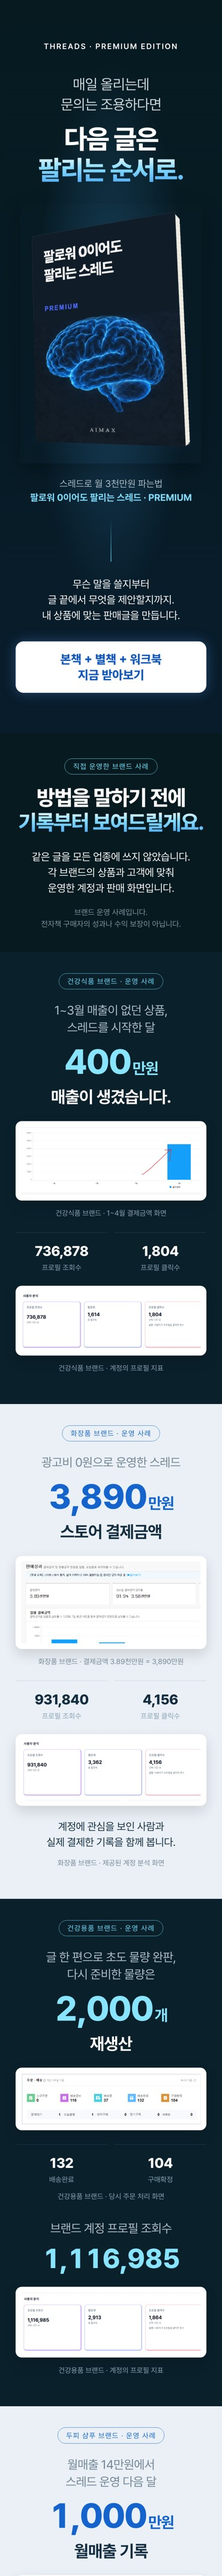
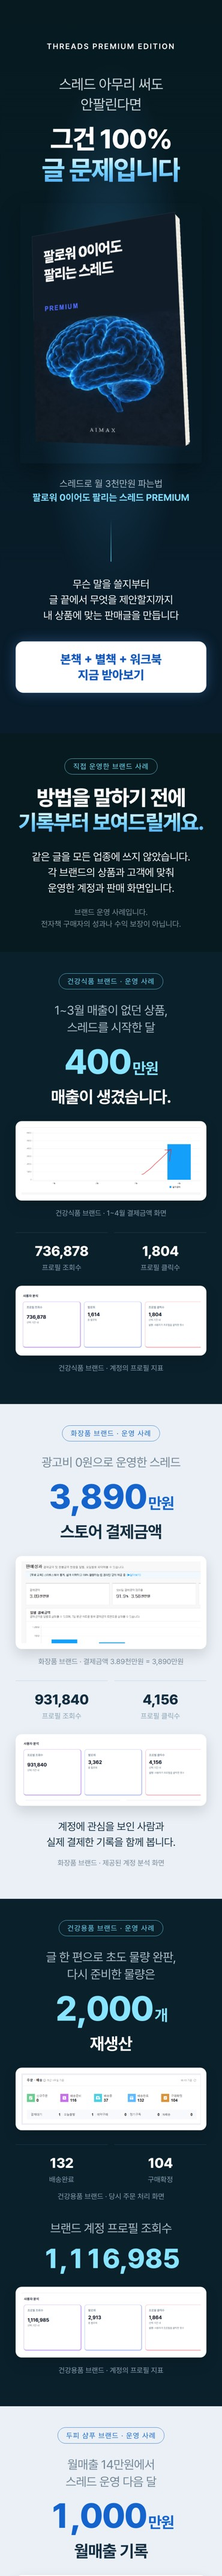
Update Threads premium hero with requested headline

diff --git a/landing/lounge-rebuild-20260930/threads-premium/detail.html b/landing/lounge-rebuild-20260930/threads-premium/detail.html
@@ -1,5 +1,5 @@
 <!DOCTYPE html><html lang="ko"><head><meta charset="utf-8"><title>스레드로 월 3천만원 파는법 · PREMIUM</title><link rel="stylesheet" href="design.css"></head><body><main class="page">
-<section class="hero dark" id="hero"><p class="eyebrow">THREADS · PREMIUM EDITION</p><p class="lead">매일 올리는데<br>문의는 조용하다면</p><h1>다음 글은<br><span class="metal">팔리는 순서로.</span></h1><img class="book" src="assets/book-current-3d.png" alt="최신 3D 스레드 PREMIUM 책 표지"><p class="caption">스레드로 월 3천만원 파는법<br><b>팔로워 0이어도 팔리는 스레드 · PREMIUM</b></p><div class="thread"></div><p class="body">무슨 말을 쓸지부터<br>글 끝에서 무엇을 제안할지까지.<br>내 상품에 맞는 판매글을 만듭니다.</p><div class="cta">본책 + 별책 + 워크북<br>지금 받아보기</div></section>
+<section class="hero dark" id="hero"><p class="eyebrow">THREADS PREMIUM EDITION</p><p class="lead">스레드 아무리 써도<br>안팔린다면</p><h1>그건 100%<br><span class="metal">글 문제입니다</span></h1><img class="book" src="assets/book-current-3d.png" alt="최신 3D 스레드 PREMIUM 책 표지"><p class="caption">스레드로 월 3천만원 파는법<br><b>팔로워 0이어도 팔리는 스레드 PREMIUM</b></p><div class="thread"></div><p class="body">무슨 말을 쓸지부터<br>글 끝에서 무엇을 제안할지까지<br>내 상품에 맞는 판매글을 만듭니다</p><div class="cta">본책 + 별책 + 워크북<br>지금 받아보기</div></section>
 
 <section class="evidence-intro dark" id="evidence-intro"><span class="pill cyan">직접 운영한 브랜드 사례</span><h2>방법을 말하기 전에<br><span class="metal">기록부터 보여드릴게요.</span></h2><p class="body">같은 글을 모든 업종에 쓰지 않았습니다.<br>각 브랜드의 상품과 고객에 맞춰<br>운영한 계정과 판매 화면입니다.</p><p class="small">브랜드 운영 사례입니다.<br>전자책 구매자의 성과나 수익 보장이 아닙니다.</p></section>
 <section class="brand-proof" id="brand-one"><span class="pill">건강식품 브랜드 · 운영 사례</span><p class="lead">1~3월 매출이 없던 상품,<br>스레드를 시작한 달</p><p class="evidence-number">400<small>만원</small></p><h3>매출이 생겼습니다.</h3><figure class="evidence-img"><img src="assets/proof/brand1_sales_first_month.png" alt="건강식품 브랜드 1월부터4월까지 결제금액 원본 화면"></figure><p class="evidence-caption">건강식품 브랜드 · 1~4월 결제금액 화면</p><div class="metric-pair"><div><strong>736,878</strong><span>프로필 조회수</span></div><div><strong>1,804</strong><span>프로필 클릭수</span></div></div><figure class="evidence-img"><div class="metric-zoom"><img src="assets/proof/brand1_threads_736878.png" alt="프로필조회736878 팔로워1614 프로필클릭1804 원본 지표"></div></figure><p class="evidence-caption">건강식품 브랜드 · 계정의 프로필 지표</p></section>

diff --git a/landing/lounge-rebuild-20260930/PROGRESS.md b/landing/lounge-rebuild-20260930/PROGRESS.md
@@ -2,6 +2,14 @@
 
 현재 상태: 성과 증빙 누락 수정 완료. 기존 자료를 복원하고 12종을 다시 게시·검증했습니다. 최종 근거는 publication-evidence-verification.json입니다.
 
+## 추가 수정: 스레드 PREMIUM 히어로
+
+- 사용자 지정 문구: 스레드 아무리 써도 / 안팔린다면 / 그건 100% / 글 문제입니다
+- 히어로 문장의 마침표·쉼표·장식 가운데점 제거. 문장에 필요한 %와 구성 안내의 +는 유지.
+- 히어로 아래 본문 HTML과 전체 이미지 픽셀이 기존 게시본과 정확히 같음을 확인. 34조각 중 첫 이미지 1장만 변경.
+- 상품277 및 연결상품376·378·380·382·390·396의 PC/mobile 설명을 교체. 운영기록: Cafe24 launches/threads-hero-20260930/.
+- 검수: threads-premium/qa/hero-copy-change.json. 전체 높이51356px 유지, 폰트5개·이미지27개 로딩/가로넘침0.
+
 - 현재 라운지 12종: 기존 승인 컨셉 v10 + 새 11종. 최신 표지, 원문 기반 카피·예시, 이미지/타이포/그라데이션 반영.
 - 모든 산출물 실제 렌더·구간 시각검수·카피검수·넘침 검사·안전 슬라이스·픽셀 재조립 완료.
 - shop4 전용 변형 3종도 별도 제작:321=99,000원,286=99,000원,319=30,000원. 기본몰과 다른 현행 가격을 보존.

diff --git a/landing/lounge-rebuild-20260930/threads-premium/copy.md b/landing/lounge-rebuild-20260930/threads-premium/copy.md
@@ -1,13 +1,13 @@
-THREADS · PREMIUM EDITION
-매일 올리는데
-문의는 조용하다면
-다음 글은
-팔리는 순서로.
+THREADS PREMIUM EDITION
+스레드 아무리 써도
+안팔린다면
+그건 100%
+글 문제입니다
 스레드로 월 3천만원 파는법
-팔로워 0이어도 팔리는 스레드 · PREMIUM
+팔로워 0이어도 팔리는 스레드 PREMIUM
 무슨 말을 쓸지부터
-글 끝에서 무엇을 제안할지까지.
-내 상품에 맞는 판매글을 만듭니다.
+글 끝에서 무엇을 제안할지까지
+내 상품에 맞는 판매글을 만듭니다
 본책 + 별책 + 워크북
 지금 받아보기
 직접 운영한 브랜드 사례
